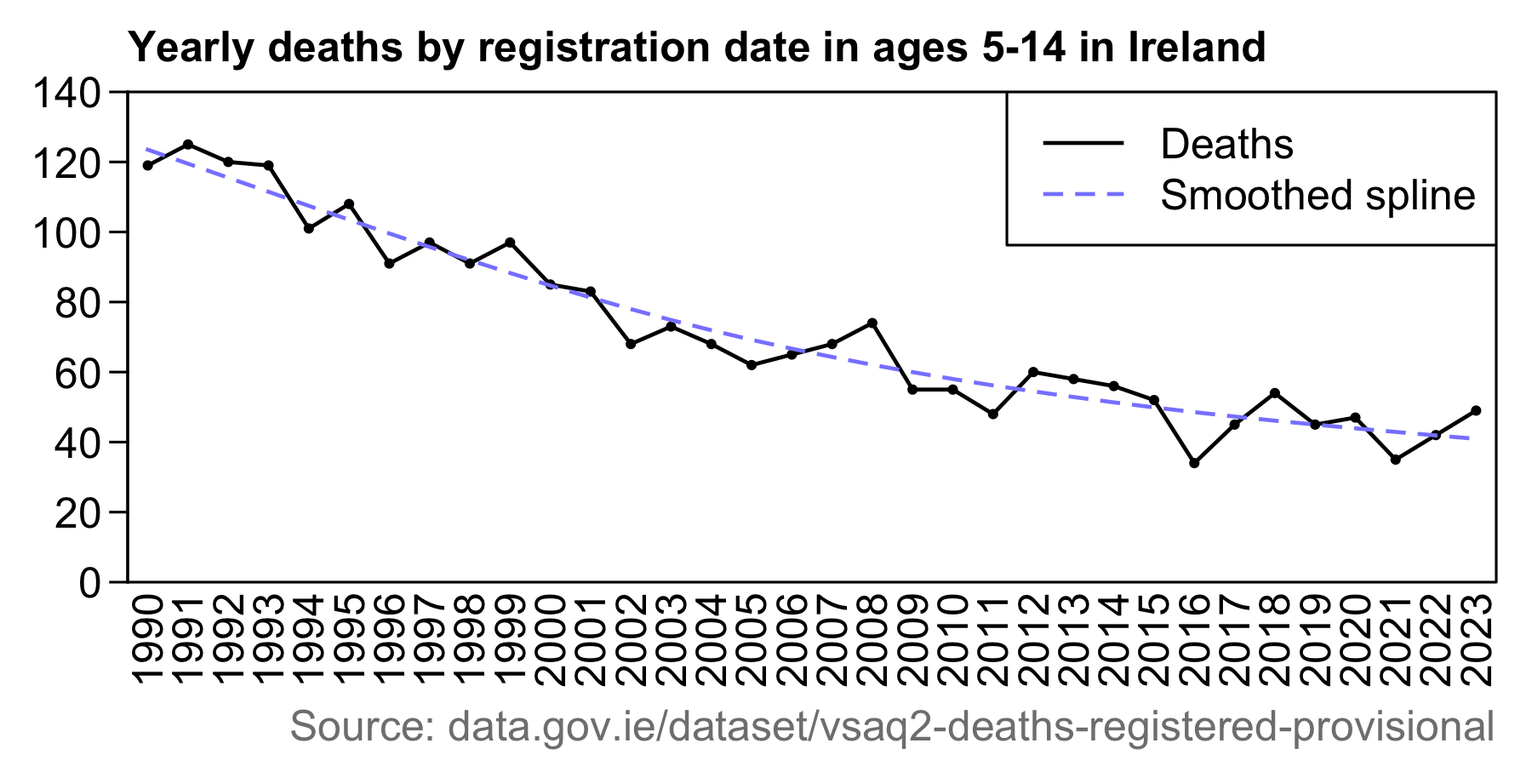
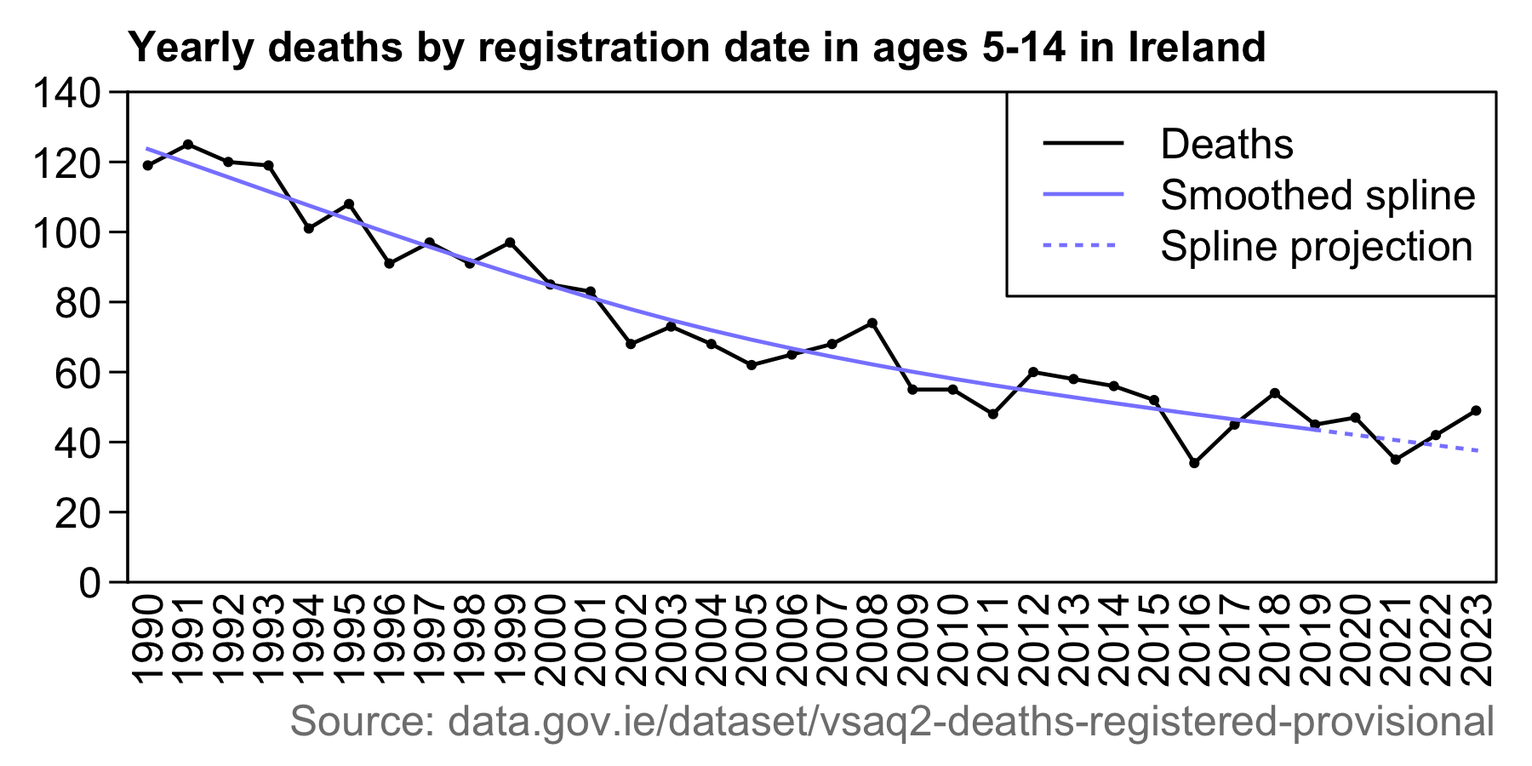
a

diff --git a/ethical.html b/ethical.html
@@ -98,7 +98,8 @@ blockquote blockquote blockquote,blockquote blockquote .quote,blockquote .quote 
 <p>Ethical Skeptic posted a plot of weekly cancer deaths where he applied a method he calls <span class="quote">&quot;excess MCOD normalization&quot;</span>, where he initially plotted only UCD deaths but from week 10 of 2022 until week 20 of 2023 he added in a gradually increasing proportion of MCD deaths to his plot. He thinks cancer deaths which should've been classified as UCD were hidden under MCD, because the ratio of MCD to UCD cancer deaths has been higher since 2020 than in 2018 and 2019.</p>
 <p>However he failed to show that there had already been an increasing trend in the MCD to UCD ratio since around 2016, and since 2020 essentially all extra MCD deaths above the prepandemic trend have had MCD COVID.</p>
 <p>So I think his method of excess MCD normalization is not justified, because the increase in the MCD to UCD ratio is explained by COVID deaths combined with a continuation of a prepandemic trend. The reason why the MCD to UCD ratio has been increasing might be because cancer mortality has decreased faster than cancer incidence, so cancer survival rates have increased and there are now more people who end up surviving with cancer up to the point when they die from some other cause.</p>
-<p>Ethical Skeptic's earlier plot for the MCD to UCD cancer ratio started from 2018, but after I pointed out that there had been an increasing trend in the ratio since around 2015 or 2016 so he should extend the x-axis of his plot further to the past, he posted an updated version of the plot that started from 2017. However he seems to have generated fake data for 2017 that looks like random noise was added to the data for 2018, because the shape of the line in 2017 is very similar to the line for 2018, and the lines have peaks on the same week numbers. I didn't even find weekly data for MCD cancer deaths in 2017 from anywhere, and Ethical Skeptic only cited CDC WONDER as his source at the bottom of the plot but I think CDC WONDER doesn't have weekly data for 2017. But the MCD to UCD ratio should be clearly lower in 2017 than 2018 based on my plot for monthly data from CDC WONDER, even though in Ethical Skeptic's fake data the ratio was similar in 2017 and 2018.</p>
+<p>Ethical Skeptic's earlier plot for the MCD to UCD cancer ratio started from 2018, but after I pointed out that there had been an increasing trend in the ratio since around 2015 or 2016 so he should extend the x-axis of his plot further to the past, he posted an updated version of the plot that started from 2017. However he seems to have generated fake data for 2017 that looks like random noise was added to the data for 2018, because the shape of the line in 2017 is very similar to the line for 2018, and the lines have peaks on the same week numbers. I didn't even find weekly data for MCD cancer deaths in 2017 from anywhere, and Ethical Skeptic only cited CDC WONDER as his source at the bottom of the plot but I think CDC WONDER doesn't have weekly data for 2017. But the MCD to UCD ratio should be clearly lower in 2017 than 2018 based on my plot of monthly data from CDC WONDER, even though in Ethical Skeptic's fake data the ratio was similar in 2017 and 2018.</p>
+<p>After I accused Ethical Skeptic of inserting fake data for 2017, he updated his plot to add a note which said: <span class="quote">&quot;Note: Because Wonder does not offer 201 weekly data, 2017 weekly data reflects the correct total for the year but is a week-by-week apportionment by combined 2018/19 arrival forms&quot;</span>. However I don't understand what he meant. The line for 2017 doesn't seem like a simple average of 2018 and 2019 because it's more similar to 2018 than to 2019. And the line for 2017 does not even reflect the correct total for 2017 because the real MCD to UCD ratio was much lower in 2017.</p>
 <p><b><u>SV40 cancer wave plot for ASMR since 1950s</u></b></p>
 <p>Ethical Skeptic posted a plot for cancer ASMR since 1950 where the ASMR peaked around the year 1990. He attributed an increase in cancer ASMR between the 1950s and 1990 to the contamination of polio vaccines with SV40. However the increase in cancer ASMR since the 1950s was almost entirely due to an increase in lung cancer which had a rising trend in ASMR until around the year 1990, and other major types of cancer had a flat or decreasing trend in ASMR from the 1950s until 1990. So did the SV40 virus disproportionately cause lung cancer as opposed to other types of cancer? A decrease in cancer ASMR since 1990 was similarly mainly driven by a decrease in lung cancer.</p>
 <p>In the SV40 cancer plot Ethical Skeptic used data from Statista.com up to 2017 but data from CDC WONDER from 2018 onwards. The data before 2018 was identical to ASMR values returned by CDC WONDER, which calculates ASMR by 10-year age groups using the year 2000 US standard population. However I was not able to reproduce the ASMR from 2018 onwards that Ethical Skeptic calculated himself. He got the lowest ASMR in 2021, but his ASMR went up from 2021 to 2022, from 2022 to 2023, and from 2023 to 2024. However I always got lower ASMR in 2023 than 2021 even though I tried several different methods of calculating ASMR. Ethical Skeptic may have applied his technique of MCD normalization to the plot, where he initially plotted only UCD deaths but later he added in an increasing proportion of MCD deaths to his plot.</p>
@@ -2053,6 +2054,61 @@ theme(axis.text=element_text(size=7,color=&quot;black&quot;),
   strip.text=element_blank())
 ggsave(&quot;1.png&quot;,width=4.2,height=3,dpi=400*4)
 system(&quot;magick 1.png -resize 25% -colorspace gray -dither none -colors 16 1.png&quot;)</pre>
+</div>
+<p>Added on December 11th 2024 UTC: Ethical Skeptic now posted an updated version of the plot for the MCD to UCD ratio which said: <span class="quote">&quot;Note: Because Wonder does not offer 201 weekly data, 2017 weekly data reflects the correct total for the year but is a week-by-week apportionment by combined 2018/19 arrival forms&quot;</span>: [<a href="https://x.com/EthicalSkeptic/status/1866674708239855796">https://x.com/EthicalSkeptic/status/1866674708239855796</a>]</p>
+<div class="width8">
+<img src="i/ethical-excessmcdnote.png">
+</div>
+<p>I don't understand what he meant or how he calculated the line for 2017. At first I thought it might have meant an average of the lines for 2018 and 2019, because for example 2019 has a much lower ratio during the first weeks of the year than 2018, but 2017 is roughly halfway between 2018 and 2019 during the first weeks of the year. However the line for 2017 can't be a simple average of 2018 and 2019, because the line for 2017 has a much more similar shape to the line for 2018 than to the line for 2019. And also his plot doesn't seem to reflect the correct total for the year 2017, because the MCD to UCD ratio in 2017 should be about 1.1015 which is much lower than the average ratio for 2017 in his plot:</p>
+<pre>&gt; t=fread(&quot;http://sars2.net/f/wondermalignantyearly.csv&quot;)
+&gt; a=merge(t[cause%like%&quot;MCD&quot;,.(mcd=sum(dead)),year],t[cause%like%&quot;UCD&quot;,.(ucd=sum(dead)),year])
+&gt; a[year&gt;=2015,.(year,mcd,ucd,ratio=mcd/ucd)]|&gt;print(r=F)
+ year    mcd    ucd    ratio
+ 2015 652659 595919 1.095214
+ 2016 656189 598031 1.097249
+ 2017 659896 599099 1.101481
+ 2018 662624 599265 1.105728
+ 2019 664750 599589 1.108676
+ 2020 703154 602347 1.167357
+ 2021 717005 605206 1.184729
+ 2022 723433 608366 1.189141
+ 2023 705468 613361 1.150168
+ 2024 498951 460627 1.083200</pre>
+<p>From this plot where I imposed real monthly data for 2017 on top of Ethical Skeptic's fake weekly data for 2017, you can also see that his ratio is too high in 2017:</p>
+<div class="width8">
+<img src="i/ethical-excessmcdnote-2.png">
+</div>
+<div class="spoiler">
+<button>
+Show code
+</button><pre>library(data.table);library(ggplot2)
+
+t=fread(&quot;http://sars2.net/f/wondermalignantmonthly.csv&quot;)
+t=dcast(t,date~cause)
+lab=c(&quot;MCD COVID not subtracted&quot;,&quot;MCD COVID subtracted&quot;)
+p=t[,.(x=as.Date(paste0(date,&quot;-1&quot;)),y=100*c(t[[2]]/t[[5]],(t[[2]]-t[[3]])/t[[5]]),z=factor(rep(lab,each=.N),lab))]
+
+ystart=108;yend=117;ybreak=ystart:yend
+xstart=as.Date(&quot;2017-1-1&quot;);xend=as.Date(&quot;2025-1-1&quot;)
+xbreak=seq(xstart,xend,&quot;6 month&quot;);xlab=ifelse(month(xbreak)==7,year(xbreak),&quot;&quot;)
+
+ggplot(p,aes(x+15,y))+
+geom_vline(xintercept=c(xstart),color=&quot;magenta&quot;,linewidth=.2,lineend=&quot;square&quot;)+
+geom_hline(yintercept=c(ystart),color=&quot;magenta&quot;,linewidth=.2,lineend=&quot;square&quot;)+
+geom_point(aes(color=z),shape=3,stroke=.3,size=1)+
+labs(x=NULL,y=NULL)+
+scale_x_continuous(limits=c(xstart-.2,xend+.5),breaks=xbreak,labels=xlab)+
+scale_y_continuous(breaks=ybreak)+
+scale_color_manual(values=c(&quot;magenta&quot;,&quot;#660066&quot;))+
+coord_cartesian(ylim=c(ystart,yend),clip=&quot;off&quot;,expand=F)+
+theme(axis.text=element_blank(),
+  axis.ticks=element_line(linewidth=.2,color=&quot;magenta&quot;),
+  axis.ticks.x=element_line(color=alpha(&quot;magenta&quot;,c(1,0))),
+  legend.position=&quot;none&quot;,
+  panel.background=element_blank(),
+  panel.grid=element_blank(),
+  plot.background=element_rect(fill=&quot;transparent&quot;,color=NA))
+ggsave(&quot;1.png&quot;,width=5.5,height=2.2,dpi=400)</pre>
 </div>
 <h2>
 <a href=#Files_for_US_population_estimates_by_single_year_of_age_up_to_ages_100 id=Files_for_US_population_estimates_by_single_year_of_age_up_to_ages_100>Files for US population estimates by single year of age up to ages 100+</a>

diff --git a/hamburgmath.html b/hamburgmath.html
@@ -4,7 +4,7 @@
 body{background:#292929;color:white;margin:6px 6px 6px max(6px, min(50vw - 270px, 100vw - 1100px))}
 body,td,th{font:14.5px/1.3 Arial,Helvetica,'Liberation Sans',sans-serif}
 p{max-width:540px}
-h1,h2,h2 a,h3 a,h2 a:visited,h3 a:visited{font-weight:normal;color:white}
+h1,h2,h3,h2 a,h3 a,h2 a:visited,h3 a:visited{font-weight:normal;color:white}
 h1{font-size:2.1em;margin-top:.9em}
 h2{font-size:1.7em}
 h3{font-size:1.3em}
@@ -18,8 +18,10 @@ table{border-collapse:collapse}
 td,th{border:1px solid #555;padding:2px 4px}
 th{background:#444;text-align:left;font-weight:bold}
 img{max-width:100%}
-blockquote{margin-left:0px;padding-left:40px;margin-right:0}
+blockquote{margin:0;padding-left:40px;margin-right:0;overflow-x:hidden}
 blockquote p{max-width:480px}
+blockquote p:first-child{margin-top:0}
+blockquote p:last-child{margin-bottom:0}
 blockquote blockquote p{max-width:440px}
 blockquote blockquote blockquote p{max-width:400px}
 blockquote,.quote,blockquote h1,blockquote h2,blockquote h3{color:hsl(50,100%,85%)}
@@ -1762,6 +1764,35 @@ minimap2 -a --sam-hit-only -x map-ont sars2.fa &lt;(seqkit seq --rna2dna Downloa
 <div class="width7">
 <img src="i/hamburgmath-usmortality-5.jpg">
 </div>
+<p>Added later: USMortality later edited the Substack post to fix his screenshots. But he now said it was somehow problematic how a large proportion of the reads had clipped bases at either end. But I pointed out that chimeric reads are a well-known phenomenon, and if they would somehow be an insurmountable problem then people could use other sequencing methods or other library preparation methods that don't result in chimeric reads. When I asked ChatGPT why direct RNA nanopore sequencing would result in chimeric reads, it answered:</p>
+<blockquote>
+<p>1. <strong>Template Switching During Reverse Transcription (if applicable):</strong> In some workflows, RNA molecules are reverse transcribed before sequencing. The reverse transcriptase enzyme can occasionally switch between different RNA templates, leading to the creation of chimeric sequences.<br> 2. <strong>RNA Fragment Annealing or Ligation:</strong> During library preparation, RNA fragments from different molecules may anneal or be ligated together. If these chimeric RNA molecules are then sequenced, the resulting reads will appear as chimeras.<br> 3. <strong>Nanopore Detection Errors:</strong> Nanopore sequencing directly detects RNA molecules passing through a nanopore. If two RNA molecules simultaneously enter or transiently interact within the pore, the electrical signal may become a composite, leading to a chimeric interpretation during basecalling.<br> 4. <strong>Molecular Crowding or Sticky RNA Regions:</strong> RNA molecules with sticky sequences, such as homopolymers or repetitive regions, may transiently bind to other molecules. This interaction can result in misleading signals interpreted as a single continuous molecule.</p>
+</blockquote>
+<p>Then USMortality replied: <span class="quote">&quot;Additionally, this phenomenon should only occur in a subset of reads. If it is observed consistently across all reads, it is more likely to reflect an actual biological feature rather than an artifact, such as chimeric reads.&quot;</span> [<a href="https://x.com/USMortality/status/1866792958478995927">https://x.com/USMortality/status/1866792958478995927</a>]</p>
+<p>But I told him that the phenomenon of chimeric reads does occur in only a subset of reads. I got 8,773 reads that didn't have any clipped bases at the start or end:</p>
+<pre>$ minimap2 -aY --sam-hit-only -t4 sars2.fa VeroInf24h.all.fq|samtools sort -@3 -&gt;VeroInf24h.all.bam
+$ samtools view VeroInf24h.all.bam|awk &#39;$6!~/S/&#39;|wc -l
+8773</pre>
+<p>The longest one of the reads that didn't have any clipped bases at the ends was 29,453 bases long. It had more deletions than insertions relative to Wuhan-Hu-1, so it was only missing the first 11 and last 23 bases of Wuhan-Hu-1:</p>
+<pre>$ samtools view VeroInf24h.all.bam|awk &#39;$6!~/S/&#39;|samtools fasta|seqkit sort -lr|seqkit head -n1|cat - sars2.fa|mafft --thread 4 --clustalout -
+6bde649c-c7a2-4 -----------atacc-tcccaggtaacaaaccaaccatattttcgattcttgtagatct
+MN908947.3      attaaaggtttataccttcccaggtaacaaaccaaccaactttcgatctcttgtagatct
+                           ***** *********************  ***. . .************
+
+[...]
+
+6bde649c-c7a2-4 caaattaatttagtg-tatccccatgtgattttaatagctt-ttaggagaatgacaaaaa
+MN908947.3      ttaattttagtagtgctatccccatgtgattttaatagcttcttaggagaatgacaaaaa
+                . ****    ***** ************************* ******************
+
+6bde649c-c7a2-4 aaaaa-----------------------
+MN908947.3      aaaaaaaaaaaaaaaaaaaaaaaaaaaa</pre>
+<p>In all of the longest reads without clipped bases, there were at least 11 bases missing at the 5' end. The paper about the sequencing study said: <span class="quote">&quot;The SARS-CoV-2 genome was almost fully covered, missing only 12 nt from the 5′ end due to the known inability of DRS to sequence the terminal ∼12 nt (Figure 2B). The longest tags (111 reads) correspond to the full-length gRNA (Figure 2B). The coverage of the 3′ side of the viral genome is substantially higher than that of the 5′ side, which reflects the nested sgRNAs. This is also partly due to the 3′ bias of the directional DRS technique. The common presence of the leader sequence (72 nt) in viral RNAs results in a prominent coverage peak at the 5′ end, as expected. We could also clearly detect vertical drops in the coverage, whose positions correspond to the leader-body junction in sgRNAs.&quot;</span> [<a href="https://pmc.ncbi.nlm.nih.gov/articles/PMC7179501/">https://pmc.ncbi.nlm.nih.gov/articles/PMC7179501/</a>]</p>
+<p>ChatGPT said:</p>
+<blockquote>
+<p>The <strong>inability of direct RNA sequencing (DRS) to sequence the terminal ~12 nucleotides</strong> of RNA molecules, such as the SARS-CoV-2 genome, stems from technical and physical limitations in the nanopore sequencing process:</p>
+<p>1. <strong>Nanopore Structure and Motor Protein Limitations:</strong> During DRS, a motor protein unwinds and feeds the RNA strand through the nanopore for sequencing. The motor protein must remain bound to the RNA to control its movement. As the RNA approaches its 5' end, the motor protein cannot maintain its grip on the molecule, leaving the terminal nucleotides unsequenced.<br> 2. <strong>RNA Length Relative to Adapter:</strong> The RNA molecule is attached to an adapter that facilitates the interaction with the sequencing pore. The adapter prevents complete threading of the RNA, leaving the last few nucleotides unreachable by the nanopore for signal detection.<br> 3. <strong>Signal Resolution and Decay:</strong> The electrical signal produced by the nanopore becomes less reliable as the RNA molecule shortens, leading to poor resolution or complete loss of signal for the terminal nucleotides.</p>
+</blockquote>
 <h3>
 <a href=#Getting_rid_of_two_extra_G_bases_at_the_start_of_MEGAHIT_contigs id=Getting_rid_of_two_extra_G_bases_at_the_start_of_MEGAHIT_contigs>Getting rid of two extra G bases at the start of MEGAHIT contigs</a>
 </h3>

diff --git a/dowd.html b/dowd.html
@@ -59,8 +59,8 @@ blockquote blockquote blockquote,blockquote blockquote .quote,blockquote .quote 
   .spoiler{display:none}
 }
 </style>
-<title>Preprints about cancer mortality by Ed Dowd's group Phinance Technologies</title>
-<h1>Preprints about cancer mortality by Ed Dowd's group Phinance Technologies - <a href=index.html>sars2.net</a></h1>
+<title>Analysis by Ed Dowd's group Phinance Technologies</title>
+<h1>Analysis by Ed Dowd's group Phinance Technologies - <a href=index.html>sars2.net</a></h1>
 <h2 id=Contents><a href=#Contents>Contents</a></h2>
 <ul>
 <li><a href=#Paper_about_cancer_deaths_in_ages_75_to_84_at_CDC_WONDER>Paper about cancer deaths in ages 75 to 84 at CDC WONDER</a></li>
@@ -755,18 +755,18 @@ Age
 </h2>
 <p>Ed Dowd posted this tweet: [<a href="https://x.com/DowdEdward/status/1864830982521507946">https://x.com/DowdEdward/status/1864830982521507946</a>]</p>
 <blockquote>
-<p>Hey Ireland 🇮🇪 you got a horrific age 5-14 excess death problem. North of 50% in 2023. Are the doctors baffled drinking Guinness at the pub trying to figure it out? <a href="https://phinancetechnologies.com/HumanityProjects/yearly%20Excess%20Death%20Rate%20Analysis%20-%20IE.htm">https://phinancetechnologies.com/HumanityProjects/yearly%20Excess%20Death%20Rate%20Analysis%20-%20IE.htm</a></p>
+<p>Hey Ireland 🇮🇪 you got a horrific age 5-14 excess death problem. North of 50% in 2023. Are the doctors baffled drinking Guinness at the pub trying to figure it out? <a href="https://phinancetechnologies.com/HumanityProjects/yearly+Excess+Death+Rate+Analysis+-+IE.htm">https://phinancetechnologies.com/HumanityProjects/yearly+Excess+Death+Rate+Analysis+-+IE.htm</a></p>
 <p><img src=i/dowd-ireland-1.jpg class=width4></p>
 </blockquote>
-<p>However the same model gave them about -31% excess mortality in 2016:</p>
+<p>However ages 5-14 have so few deaths that the confidence intervals are huge in a small country like Ireland. The same baseline gave Dowd's group about -31% excess mortality for ages 5-14 in 2016:</p>
 <div class="width5">
 <img src="i/dowd-ireland-2.png">
 </div>
 <p>In 2019 which fell near the baseline, there were 45 deaths in an estimated population of 693,700. [<a href="https://data.gov.ie/dataset/vsaq2-deaths-registered-provisional">https://data.gov.ie/dataset/vsaq2-deaths-registered-provisional</a>, <a href="https://www.cso.ie/en/releasesandpublications/er/pme/populationandmigrationestimatesapril2019/">https://www.cso.ie/en/releasesandpublications/er/pme/populationandmigrationestimatesapril2019/</a>] So based on the Wilson score interval, the upper bound of the 95% CI is almost twice as high as the lower bound:</p>
 <pre>&gt; prop.test(45,693700)$conf
 [1] 4.786801e-05 8.761632e-05</pre>
-<p>In the next plot the number of deaths was almost twice as far below the spline in 2016 as above the spline in 2023. I used the same source for deaths, but I plotted raw deaths instead of CMR and I used a different baseline than Dowd's group:</p>
-<div class="width7">
+<p>In the next plot the number of deaths was further below the baseline in 2016 than above the baseline in 2023. I used the same data for deaths as Dowd's group, but I plotted raw deaths instead of CMR and I used a spline baseline instead of a linear baseline:</p>
+<div class="width6">
 <img src="i/dowd-ireland-3.png">
 </div>
 <div class="spoiler">
@@ -778,7 +778,7 @@ i=setDT(read_excel(&quot;ireland.xlsx&quot;,sheet=2))
 
 p=i[`Age at Death`==&quot;5 to 14 Years&quot;,.(y=sum(VALUE)),.(x=as.integer(substr(Quarter,1,4)))]
 p=p[x%in%1990:2023]
-p$smooth=predict(smooth.spline(p))$y
+p$smooth=predict(smooth.spline(p[x&lt;2020]),p$x)$y
 pct=p[,.(x,y,pct=(y/smooth-1)*100)][abs(pct)&gt;10]
 
 ybreak=pretty(c(0,p$y,p$smooth));ylim=range(ybreak)
@@ -787,7 +787,7 @@ xbreak=xstart:xend
 
 tit=&quot;Yearly deaths by registration date in ages 5-14 in Ireland&quot;
 sub=&quot;Source: data.gov.ie/dataset/vsaq2-deaths-registered-provisional&quot;
-leg=c(&quot;Deaths&quot;,&quot;Smoothed spline&quot;)
+leg=c(&quot;Deaths&quot;,&quot;Smoothed spline&quot;,&quot;Spline projection&quot;)
 col=c(&quot;black&quot;,&quot;#8888ff&quot;)
 
 png(&quot;1.png&quot;,1800,900,res=300)
@@ -797,9 +797,10 @@ axis(2,at=ybreak,las=1,tck=-.035)
 mtext(xbreak,side=1,line=.2,at=xbreak,las=2)
 lines(p$x,p$y,lwd=1.5)
 points(p$x,p$y,pch=20,cex=.6)
-lines(p$x,p$smooth,col=col[2],type=&quot;l&quot;,lty=2,lwd=1.5)
-legend(&quot;topright&quot;,legend=leg,col=col,lty=c(1,2),lwd=1.5)
-mtext(text=sub,side=1,line=2.3,adj=1,col=&quot;gray50&quot;)
+lines(head(p$x,-4),head(p$smooth,-4),col=col[2],type=&quot;l&quot;,lty=1,lwd=1.5)
+lines(tail(p$x,5),tail(p$smooth,5),col=col[2],type=&quot;l&quot;,lty=3,lwd=1.5)
+legend(&quot;topright&quot;,legend=leg,col=col[c(1,2,2)],lty=c(1,1,3),lwd=1.5)
+mtext(text=sub,side=1,line=2.2,adj=1,col=&quot;gray50&quot;)
 dev.off()</pre>
 </div>
 <script>

diff --git a/statistic2.html b/statistic2.html
@@ -75,6 +75,7 @@ blockquote blockquote blockquote,blockquote blockquote .quote,blockquote .quote 
 <li><a href=#Were_there_98_vaccinated_people_in_2023>Were there 98% vaccinated people in 2023?</a></li>
 </ul></li>
 <li><a href=#John_Beaudoin_Increase_in_deaths_with_MCD_other_specified_disorders_of_skin_and_subcutaneous_tissue>John Beaudoin: Increase in deaths with MCD other specified disorders of skin and subcutaneous tissue</a></li>
+<li><a href=#John_Beaudoin_Deaths_with_MCD_other_venous_embolism_and_thrombosis>John Beaudoin: Deaths with MCD other venous embolism and thrombosis</a></li>
 </ul>
 
 <h2>
@@ -1060,6 +1061,43 @@ system(&quot;magick 1.png -trim -bordercolor white -border 20 1.png;w=`identify 
 <p>MCD L98.8 previously also had a sudden increase between the December of 2005 and the January of 2006, so that there were about 4 times more deaths in 2006 than 2005:</p>
 <div class="width9">
 <img src="i/statistic-beaudoin-skin-3.png">
+</div>
+<h2>
+<a href=#John_Beaudoin_Deaths_with_MCD_other_venous_embolism_and_thrombosis id=John_Beaudoin_Deaths_with_MCD_other_venous_embolism_and_thrombosis>John Beaudoin: Deaths with MCD other venous embolism and thrombosis</a>
+</h2>
+<p>John Beaudoin posted this tweet: [<a href="https://x.com/JohnBeaudoinSr/status/1866720003485204511">https://x.com/JohnBeaudoinSr/status/1866720003485204511</a>]</p>
+<div class="width6">
+<img src="i/statistic-beaudoin-embolism.png">
+</div>
+<p>However I pointed out that ICD codes are like fashion that comes and goes. There's so many codes that it's easy to find codes that have gone up since 2021. Deaths with MCD I12 (hypertensive renal disease) almost quadrupled between 2012 and 2013. MCD I63 (cerebral infarction) almost tripled beween 2013 and 2018. And MCD I81 (portal vein thrombosis) doubled between 2015 and 2019:</p>
+<div class="width10">
+<img src="i/statistic-beaudoin-embolism-2.jpg">
+</div>
+<div class="spoiler">
+<button>
+Show code
+</button><pre>library(data.table)
+
+kimi=\(x){na=is.na(x);x[na]=0;e=floor(log10(ifelse(x==0,1,abs(x))));e2=pmax(e,0)%/%3+1;x[]=ifelse(abs(x)&lt;1e3,round(x),paste0(sprintf(paste0(&quot;%.&quot;,ifelse(e%%3==0,1,0),&quot;f&quot;),x/1e3^(e2-1)),c(&quot;&quot;,&quot;k&quot;,&quot;M&quot;,&quot;B&quot;,&quot;T&quot;)[e2]));x[na]=&quot;NA&quot;;x}
+
+icd=fread(&quot;http://sars2.net/f/wondericd.csv&quot;)
+t=fread(&quot;http://sars2.net/f/wonderbyicd.csv.gz&quot;)[type==&quot;MCD&quot;&amp;year!=2024&amp;code%like%&quot;I&quot;]
+t=merge(icd,t[,.(dead=sum(dead)),,.(code=substr(code,1,3),year)])
+t=t[code%in%t[,sum(dead),code][V1&gt;=1e4,code]]
+
+m=t[,xtabs(dead~paste0(code,&quot;: &quot;,cause)+year)]
+maxcolor=max(m);exp=.6
+pal=hsv(c(21,21,12,6,3,0,0)/36,c(0,.5,.5,.5,.5,.5,0),rep(1:0,c(6,1)))
+
+pheatmap::pheatmap(m^exp,filename=&quot;1.png&quot;,
+  display_numbers=ifelse(m&lt;10,m,kimi(m)),
+  cluster_rows=F,cluster_cols=F,legend=F,cellwidth=19,cellheight=15,fontsize=9,fontsize_number=8,
+  border_color=NA,na_col=&quot;gray90&quot;,
+  number_color=ifelse(abs(m^exp)&gt;maxcolor^exp*.8,&quot;white&quot;,&quot;black&quot;),
+  breaks=seq(0,maxcolor^exp,,256),
+  colorRampPalette(pal)(256))
+
+system(&quot;w=`identify -format %w 1.png`;pad=20;magick -pointsize 44 -font Arial-Bold -size $[w-pad*2] \\( caption:&#39;CDC WONDER: Yearly deaths by multiple cause of death&#39; -splice $[pad]x24 \\) \\( -font Arial -pointsize 40 caption:&#39;Codes starting with I with at least 10,000 total deaths shown. Deaths were aggregated based on 4-letter codes so deaths under 4-letter codes with less than 10 yearly deaths were not included.&#39; -splice $[pad]x2 \\) 1.png -append 1.png&quot;)</pre>
 </div>
 <script>
 let q=document.querySelectorAll('a,code,pre')

diff --git a/index.html b/index.html
@@ -65,7 +65,7 @@ blockquote blockquote blockquote,blockquote blockquote .quote,blockquote .quote 
 Statistics
 </h3>
 <div>
-2024-12-01 - <a href=ethical2.html>Comments to Ethical Skeptic (part 2)</a><br> 2024-11-26 - <a href=nopandemic2.html>Comments to no-pandemic theorists (part 2)</a><br> 2024-11-17 - <a href=dowd.html>Preprints about cancer mortality by Ed Dowd's group Phinance Technologies</a><br> 2024-11-15 - <a href=statistic2.html>Comments about COVID statistics (part 2)</a><br> 2024-09-29 - <a href=connecticut.html>Record-level Medicare data from Connecticut published by Steve Kirsch</a><br> 2024-08-25 - <a href=uk.html>UK mortality and COVID statistics</a><br> 2024-08-08 - <a href=czech4.html>Czech record-level mortality data by vaccination status (part 4)</a><br> 2024-07-22 - <a href=czech3.html>Czech record-level mortality data by vaccination status (part 3)</a><br> 2024-07-22 - <a href=czech2.html>Czech record-level mortality data by vaccination status (part 2)</a><br> 2024-07-17 - <a href=czech.html>Czech record-level mortality data by vaccination status (part 1)</a><br> 2024-04-03 - <a href=ethical.html>Comments to Ethical Skeptic (part 1)</a><br> 2024-01-29 - <a href=statistic.html>Comments about COVID statistics (part 1)</a><br> 2023-12-02 - <a href=moar.html>New Zealand vaccination data released by database administrator Barry Young</a><br> 2023-09-13 - <a href=stat.html>R code for COVID statistics</a><br> 2023-09-09 - <a href=nopandemic.html>Comments to no-pandemic theorists (part 1)</a>
+2024-12-01 - <a href=ethical2.html>Comments to Ethical Skeptic (part 2)</a><br> 2024-11-26 - <a href=nopandemic2.html>Comments to no-pandemic theorists (part 2)</a><br> 2024-11-17 - <a href=dowd.html>Analysis by Ed Dowd's group Phinance Technologies</a><br> 2024-11-15 - <a href=statistic2.html>Comments about COVID statistics (part 2)</a><br> 2024-09-29 - <a href=connecticut.html>Record-level Medicare data from Connecticut published by Steve Kirsch</a><br> 2024-08-25 - <a href=uk.html>UK mortality and COVID statistics</a><br> 2024-08-08 - <a href=czech4.html>Czech record-level mortality data by vaccination status (part 4)</a><br> 2024-07-22 - <a href=czech3.html>Czech record-level mortality data by vaccination status (part 3)</a><br> 2024-07-22 - <a href=czech2.html>Czech record-level mortality data by vaccination status (part 2)</a><br> 2024-07-17 - <a href=czech.html>Czech record-level mortality data by vaccination status (part 1)</a><br> 2024-04-03 - <a href=ethical.html>Comments to Ethical Skeptic (part 1)</a><br> 2024-01-29 - <a href=statistic.html>Comments about COVID statistics (part 1)</a><br> 2023-12-02 - <a href=moar.html>New Zealand vaccination data released by database administrator Barry Young</a><br> 2023-09-13 - <a href=stat.html>R code for COVID statistics</a><br> 2023-09-09 - <a href=nopandemic.html>Comments to no-pandemic theorists (part 1)</a>
 </div>
 <h3>
 Bioinformatics

diff --git a/r.html b/r.html
@@ -1509,14 +1509,6 @@ pre{width:fit-content;margin:6px auto;color:white;white-space:pre-wrap;word-wrap
 <span class=output>3  2024 F         3</span>
 <span class=output>4  2024 M         0</span>
 <span class=output>
-<span class=title># mean of two dates</span></span>
-<span class=prompt>&gt;</span> <span class=code>d1=as.Date(&quot;2020-1-1&quot;);d2=as.Date(&quot;2021-1-1&quot;)</span>
-<span class=prompt>&gt;</span> <span class=code>mean(d1,d2)</span><span class=comment> # this doesn&apos;t work</span>
-<span class=output>Error in mean.default(unclass(x), ...) :</span>
-<span class=output>  &apos;trim&apos; must be numeric of length one</span>
-<span class=prompt>&gt;</span> <span class=code>pmean(d1,d2)</span><span class=comment> # this works</span>
-<span class=output>[1] &quot;2020-07-02&quot;</span>
-<span class=output>
 <span class=title># add int and bool</span></span>
 <span class=prompt>&gt;</span> <span class=code>28+T</span>
 <span class=output>[1] 29</span>
@@ -1544,6 +1536,8 @@ pre{width:fit-content;margin:6px auto;color:white;white-space:pre-wrap;word-wrap
 <span class=title># increment date by one month</span></span>
 <span class=prompt>&gt;</span> <span class=code>d=as.Date(&quot;2024-12-1&quot;)</span>
 <span class=prompt>&gt;</span> <span class=code>seq(d,,&quot;month&quot;,2)[2]</span>
+<span class=output>[1] &quot;2025-01-01&quot;</span>
+<span class=prompt>&gt;</span> <span class=code>d2=as.POSIXlt(d);d2$mon=d2$mon+1;as.Date(d2)</span><span class=comment> # base R that also works with vector of multiple dates</span>
 <span class=output>[1] &quot;2025-01-01&quot;</span>
 <span class=prompt>&gt;</span> <span class=code>d%m+%months(1)</span><span class=comment> # lubridate</span>
 <span class=output>[1] &quot;2025-01-01&quot;</span>
